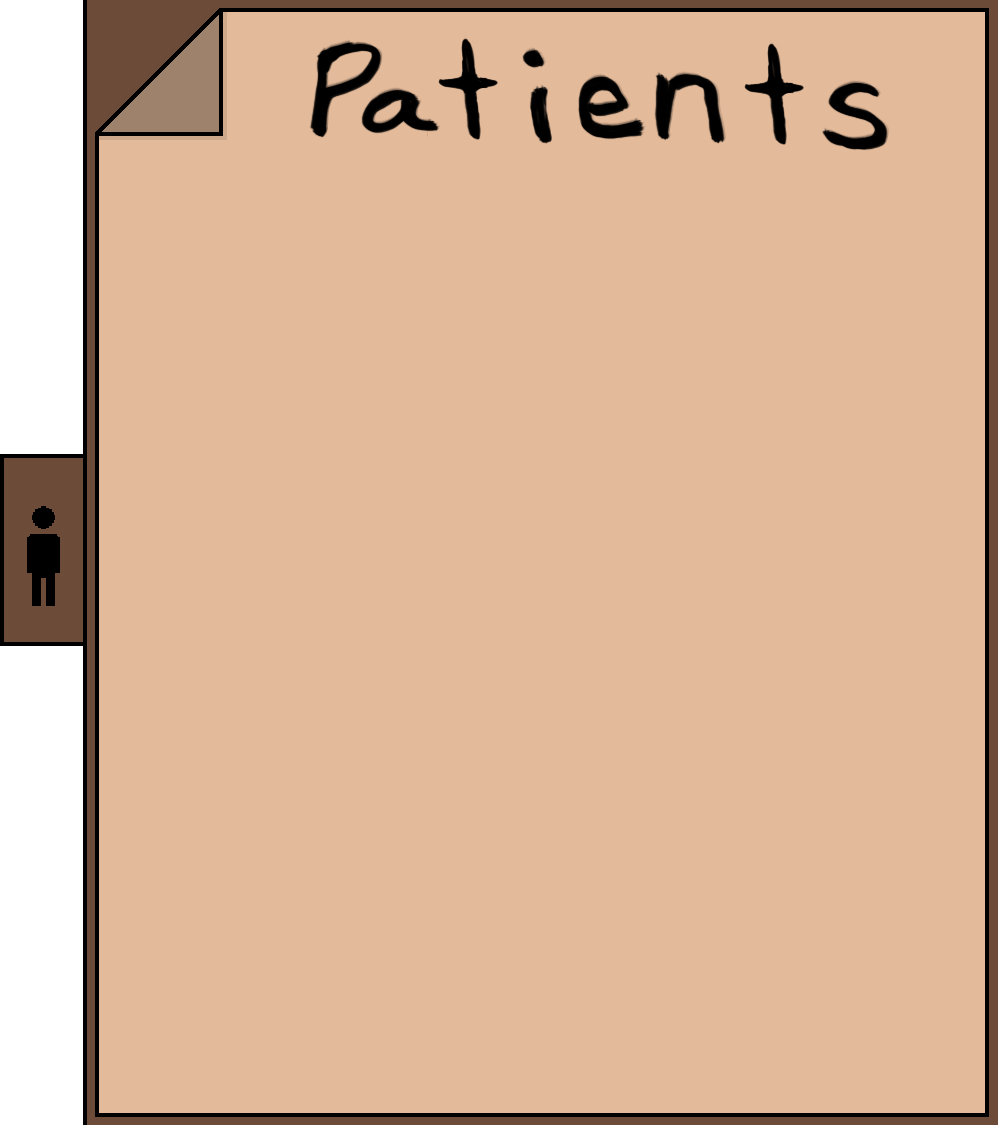
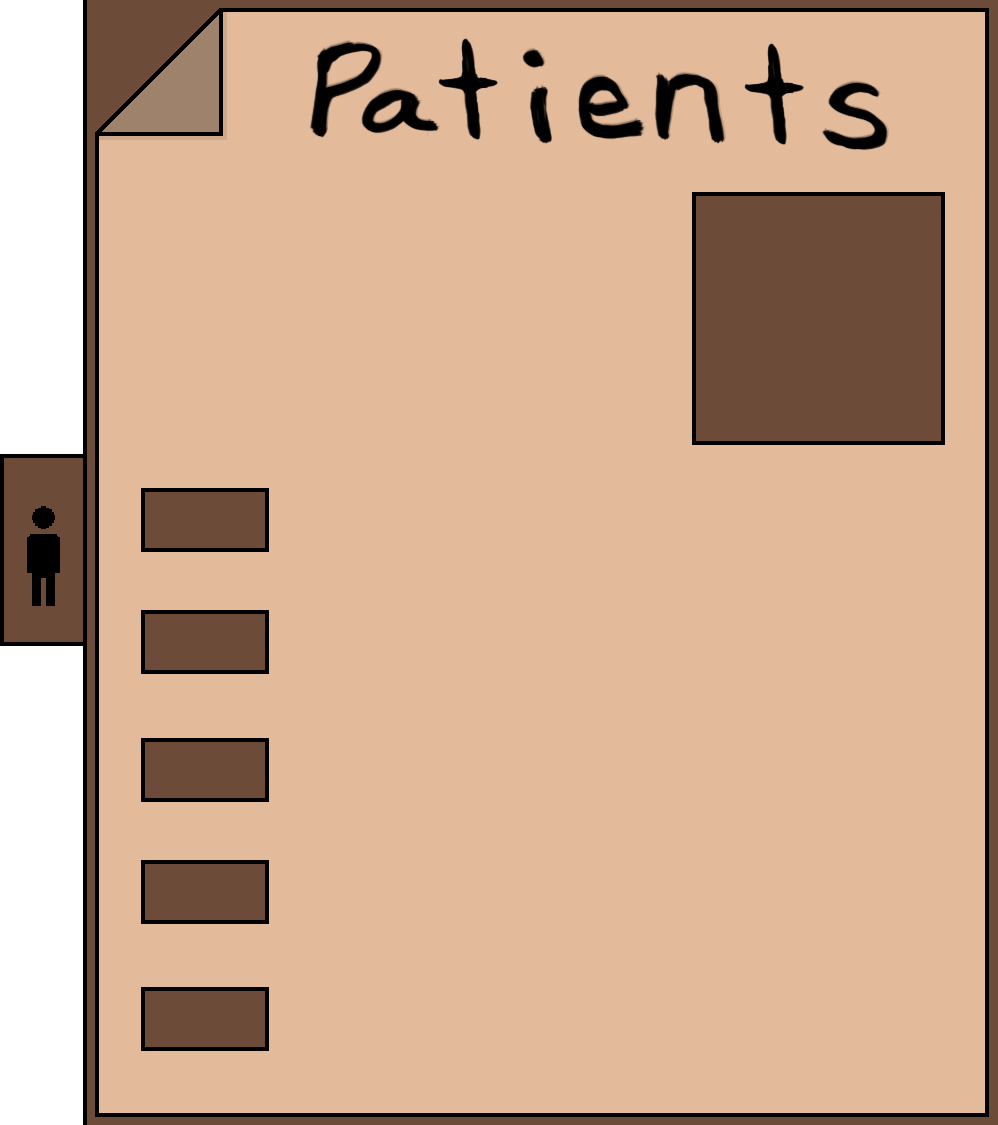
tweaked values, changed image

diff --git a/js/pullOutMenuRight.js b/js/pullOutMenuRight.js
@@ -11,19 +11,19 @@ let pullOutMenuRight = function(distance, inverted){
 };
 
 pullOutMenuRight.prototype.initData = function(){
-	this.picture = this.items.create(3000, 200);
+	this.picture = this.items.create(3120, 200);
 	this.picture.scale.setTo(4, 4)
-	this.nametext = game.add.text(2500, 200, "----------------------------------------", 16);
+	this.nametext = game.add.text(2500, 200, "", 16);
 	this.items.add(this.nametext);
-	this.textA = game.add.text(2650, 500, "--------------------------------------------------------------------------------", 16);
+	this.textA = game.add.text(2650, 500, "", 16);
 	this.items.add(this.textA);
-	this.textB = game.add.text(2650, 625, "--------------------------------------------------------------------------------", 16);
+	this.textB = game.add.text(2650, 625, "", 16);
 	this.items.add(this.textB);
-	this.textC = game.add.text(2650, 750, "--------------------------------------------------------------------------------", 16);
+	this.textC = game.add.text(2650, 750, "", 16);
 	this.items.add(this.textC);
-	this.textD = game.add.text(2650, 875, "--------------------------------------------------------------------------------", 16);
+	this.textD = game.add.text(2650, 875, "", 16);
 	this.items.add(this.textD);
-	this.textE = game.add.text(2650, 1000, "--------------------------------------------------------------------------------", 16);
+	this.textE = game.add.text(2650, 1000, "", 16);
 	this.items.add(this.textE);
 }
 
